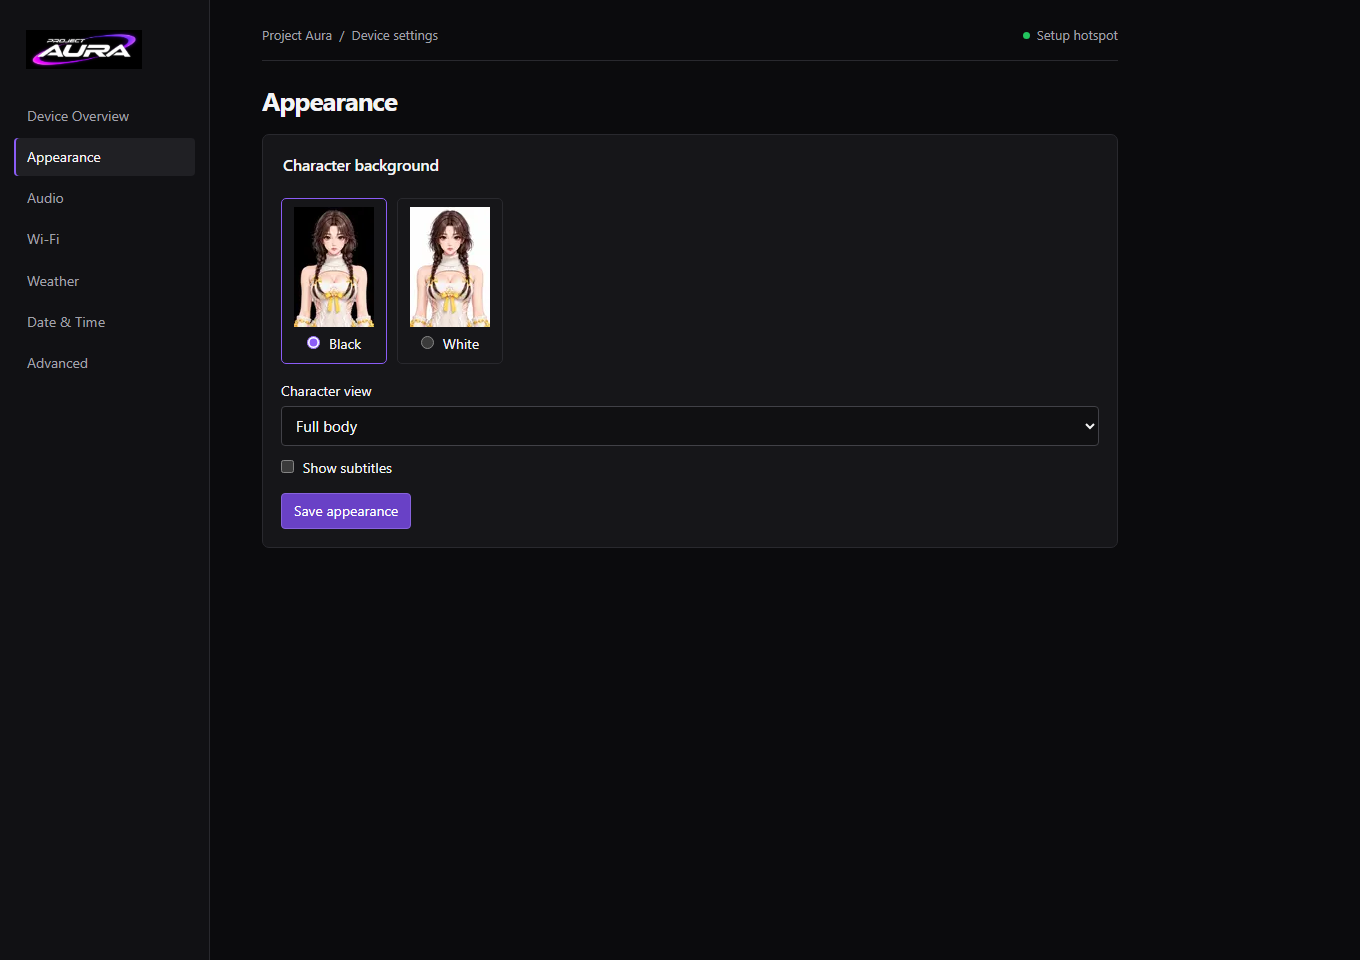
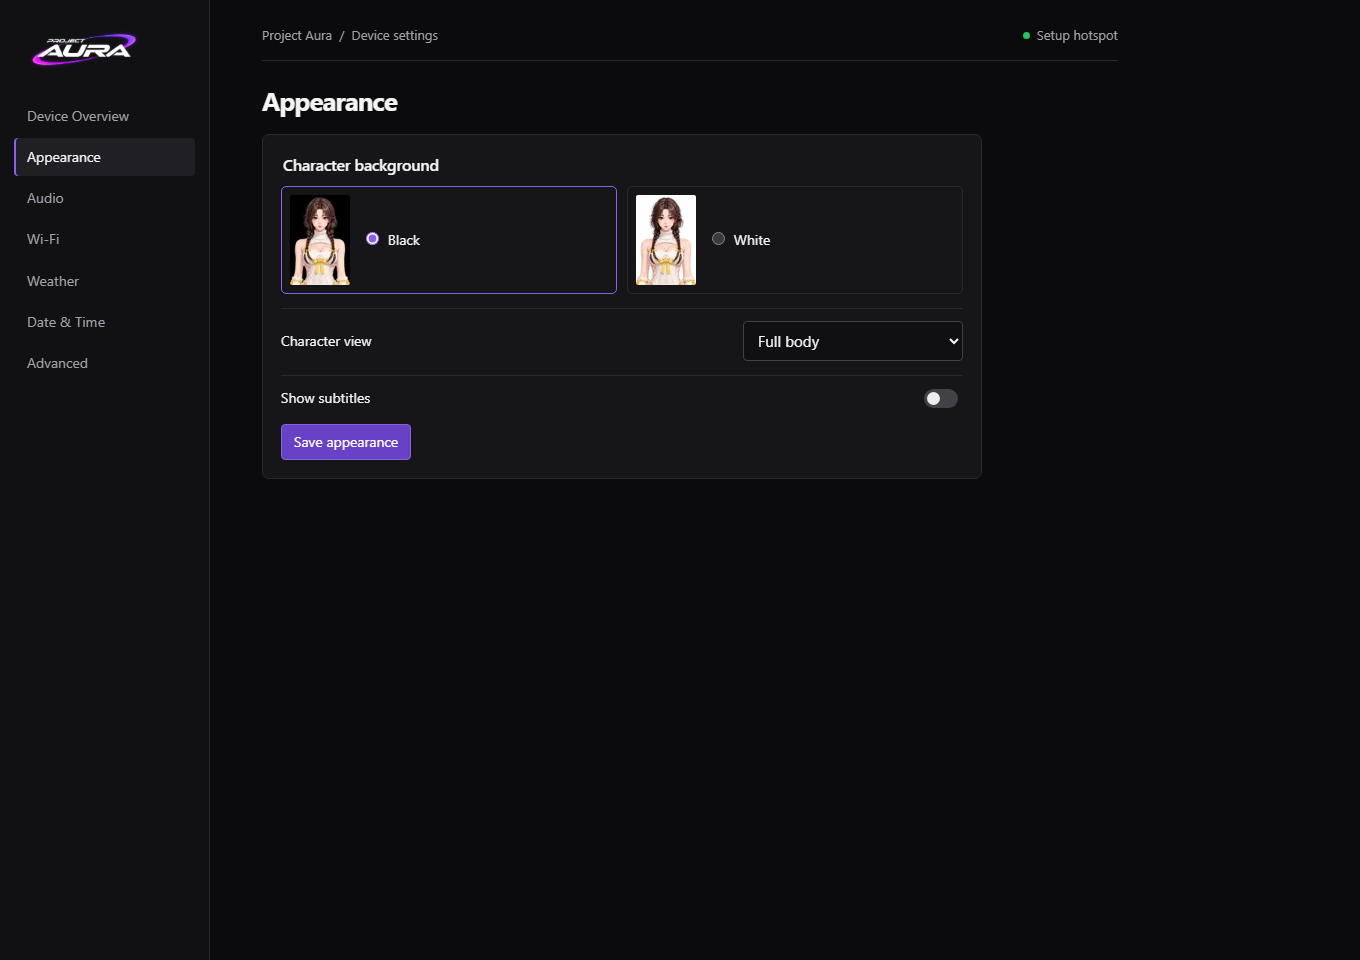
Measure the rolling glyph window with public LVGL APIs and verify subtitle drain and portal recovery

diff --git a/main/boards/anime-companion-s3/web/portal.html b/main/boards/anime-companion-s3/web/portal.html
@@ -11,9 +11,10 @@
 .layout{display:grid;grid-template-columns:210px minmax(0,1fr);min-height:100vh}aside{background:var(--sidebar);border-right:1px solid var(--line);padding:30px 14px}.brand{display:block;width:116px;margin:0 12px 28px}.nav{display:grid;gap:3px}.nav button{border:0;border-radius:4px;background:none;text-align:left;padding:9px 13px;color:var(--muted);font-size:14px}.nav button:hover,.nav button.active{background:#202024;color:var(--fg)}.nav button.active{box-shadow:inset 2px 0 var(--accent)}.mobileNav{display:none}
 .pane{width:100%;max-width:960px;padding:26px clamp(18px,4vw,52px) 40px}.top{display:flex;justify-content:space-between;align-items:center;color:var(--muted);font-size:13px;padding-bottom:15px;border-bottom:1px solid var(--line)}.status{display:inline-flex;align-items:center;gap:7px}.status:before{content:"";width:7px;height:7px;background:var(--muted);border-radius:50%}.status.online:before{background:var(--ok)}
 h1{font-size:26px;letter-spacing:-.04em;line-height:1.2;margin:24px 0 18px}h2,legend{font-size:16px;font-weight:600;letter-spacing:-.015em;margin:0 0 10px}p{margin:7px 0 12px;color:var(--muted)}.box,iframe{background:var(--panel);border:1px solid var(--line);border-radius:7px}.box{padding:18px;margin:0 0 12px}.grid{display:grid;grid-template-columns:repeat(2,minmax(0,1fr));gap:12px}.grid>*{min-width:0}.big{font-size:22px;font-weight:550;letter-spacing:-.03em}.link{color:var(--fg);padding:4px 0;background:none;border:0;text-decoration:underline;text-underline-offset:4px;text-decoration-color:#57575c;font-size:13px}
-dl{margin:0}dl div{display:flex;justify-content:space-between;gap:14px;padding:9px 0;border-top:1px solid var(--line)}dt{color:var(--muted)}dd{margin:0;text-align:right;overflow-wrap:anywhere}label{display:block;font-size:14px;margin:12px 0 5px}input,select{width:100%;min-width:0;background:#101012;border:1px solid #414147;border-radius:4px;padding:8px 10px}input[type=checkbox],input[type=radio]{width:auto;margin:0 5px 0 0}input[type=range]{padding:0;display:block;margin:13px 0}input{accent-color:var(--accent)}fieldset{border:0;margin:0;padding:0}.row,.actions{display:flex;align-items:center;gap:8px}.actions{margin-top:15px;flex-wrap:wrap}.row input{flex:1}.btn{background:#242429;border:1px solid #39393e;padding:7px 12px;border-radius:4px;white-space:nowrap;font-size:14px}.primary{color:white;background:#6941c6;border-color:#8763dc}.btn:hover{filter:brightness(1.13)}.feedback{font-size:14px;color:var(--ok)}.feedback:empty{display:none}.feedback.error{color:var(--error)}.swatches{display:flex;gap:10px}.swatch{display:grid;justify-items:center;border:1px solid var(--line);border-radius:5px;padding:8px 12px;gap:7px;cursor:pointer}.swatch:has(:checked){border-color:var(--accent)}.swatch img{object-fit:contain}.sub{font-size:14px}iframe{width:100%;min-height:540px}#volPercent{float:right;font-variant-numeric:tabular-nums}#audio .box{max-width:620px}
+dl{margin:0}dl div{display:flex;justify-content:space-between;gap:14px;padding:9px 0;border-top:1px solid var(--line)}dt{color:var(--muted)}dd{margin:0;text-align:right;overflow-wrap:anywhere}label{display:block;font-size:14px;margin:12px 0 5px}input,select{width:100%;min-width:0;background:#101012;border:1px solid #414147;border-radius:4px;padding:8px 10px}input[type=checkbox],input[type=radio]{width:auto;margin:0 5px 0 0}input[type=range]{padding:0;display:block;margin:13px 0}input{accent-color:var(--accent)}fieldset{border:0;margin:0;padding:0}.row,.actions{display:flex;align-items:center;gap:8px}.actions{margin-top:15px;flex-wrap:wrap}.row input{flex:1}.btn{background:#242429;border:1px solid #39393e;padding:7px 12px;border-radius:4px;white-space:nowrap;font-size:14px}.primary{color:white;background:#6941c6;border-color:#8763dc}.btn:hover{filter:brightness(1.13)}.feedback{font-size:14px;color:var(--ok)}.feedback:empty{display:none}.feedback.error{color:var(--error)}.swatches{display:flex;gap:10px}.swatch{display:grid;justify-items:center;border:1px solid var(--line);border-radius:5px;padding:8px 12px;gap:7px;cursor:pointer}.swatch:has(:checked){border-color:var(--accent)}.swatch img{object-fit:contain}.sub{font-size:14px}iframe{width:100%;min-height:180px}#volPercent{float:right;font-variant-numeric:tabular-nums}#audio .box{max-width:620px}
 @media(max-width:700px){.layout{display:block}aside{display:flex;align-items:center;justify-content:space-between;padding:12px 16px;border:0;border-bottom:1px solid var(--line)}.brand{width:90px;margin:0}.nav{display:none}.mobileNav{display:block;width:auto;max-width:55%;font-size:14px}.pane{padding:16px}.top{padding-bottom:10px}h1{font-size:23px;margin:18px 0 14px}.box{padding:14px}.row{flex-wrap:wrap}.row input{min-width:105px}.grid{gap:8px}.big{font-size:18px}}
 @media(max-width:370px){.grid{grid-template-columns:1fr}}
+#appearance{max-width:720px}.settingRow{border-top:1px solid var(--line);margin-top:14px;padding:12px 0 0;display:flex;align-items:center;justify-content:space-between;gap:18px}.settingRow label{margin:0}.settingRow select{width:min(50%,220px)}.switch{appearance:none;width:34px!important;height:19px;background:#414147;border:0;border-radius:15px;padding:3px;cursor:pointer}.switch:before{content:"";display:block;width:13px;height:13px;background:#eee;border-radius:50%}.switch:checked{background:var(--accent)}.switch:checked:before{transform:translateX(15px)}.swatches{flex-wrap:wrap}.swatch{display:flex;align-items:center;flex:1;justify-content:flex-start;gap:16px;padding:8px;margin:0}.swatch img{border-radius:2px;width:60px;height:90px}.swatch span{white-space:nowrap}.brand{mix-blend-mode:screen}
 </style>
   </head>
   <body>
@@ -58,7 +59,7 @@ dl{margin:0}dl div{display:flex;justify-content:space-between;gap:14px;padding:9
             </article>
             <article class="box">
               <h2>Weather</h2>
-              <div class="big" id="weatherCard">Not configured</div>
+              <div class="big" id="weatherCard">—</div>
               <p id="weatherCity"></p>
               <button data-go="weather" class="link">Weather settings →</button>
             </article>
@@ -169,8 +170,8 @@ dl{margin:0}dl div{display:flex;justify-content:space-between;gap:14px;padding:9
         </section>
         <section id="appearance" hidden class="box">
[1 lines of base64/hex data omitted]
-          <label for="bodyMode">Character view</label><select id="bodyMode"><option value="full">Full body</option><option value="half">Half body</option></select>
-          <label><input id="showSubs" type="checkbox"> Show subtitles</label>
+          <div class="settingRow"><label for="bodyMode">Character view</label><select id="bodyMode"><option value="full">Full body</option><option value="half">Half body</option></select>
+          </div><div class="settingRow"><label for="showSubs">Show subtitles</label><input class="switch" id="showSubs" type="checkbox"></div>
           <div class="actions"><button class="btn primary" id="applyControls">Save appearance</button></div></section>
         <section id="audio" hidden><div class="box"><label for="volume">Speaker volume <output id="volPercent"></output></label><input id="volume" type="range" min="0" max="100" step="1"><button class="btn primary" id="applyVolume">Save volume</button></div></section>
         <section id="advanced" hidden>
@@ -211,6 +212,7 @@ dl{margin:0}dl div{display:flex;justify-content:space-between;gap:14px;padding:9
           "login",
           "done",
         ];
+      let writes=0, writing=0, reconnecting=false;
       let state = null,
         token = "",
         clearKey = false,
@@ -248,6 +250,16 @@ dl{margin:0}dl div{display:flex;justify-content:space-between;gap:14px;padding:9
         } else $("legacy").removeAttribute("src");
       }
       $("mobileNav").onchange=()=>page($("mobileNav").value);
+      let frameObserver;
+      $("legacy").onload=()=>{
+        frameObserver?.disconnect();
+        const content=$("legacy").contentDocument?.querySelector(".page");
+        if (!content) return;
+        frameObserver=new ResizeObserver(()=>{
+          $("legacy").style.height=Math.ceil(content.getBoundingClientRect().height+36)+"px";
+        });
+        frameObserver.observe(content);
+      };
       function stamp(t) {
         if (!t) return "Awaiting sync";
         return new Intl.DateTimeFormat(undefined, {
@@ -257,6 +269,7 @@ dl{margin:0}dl div{display:flex;justify-content:space-between;gap:14px;padding:9
         }).format(new Date(t * 1000));
       }
       async function api(payload) {
+        if (payload) {++writes; ++writing;}
         const h = { "X-Aura-Request": "1" };
         if (token) h.Authorization = "Bearer " + token;
         if (payload) h["Content-Type"] = "application/json";
@@ -278,7 +291,7 @@ dl{margin:0}dl div{display:flex;justify-content:space-between;gap:14px;padding:9
         if (!r.ok)
           throw Error((await r.text()).slice(0, 160) || "Request failed");
         return await r.json();
-        } finally { clearTimeout(timeout); }
+        } finally { clearTimeout(timeout); if (payload) --writing; }
       }
       const dirtyControls = new Set();
       function appearance() {
@@ -312,6 +325,10 @@ dl{margin:0}dl div{display:flex;justify-content:space-between;gap:14px;padding:9
         } catch(e) { message(e.message,true); }
         finally { button.disabled=false; }
       };
+      const edited = new Set();
+      for (const group of ["weather", "time"]) {
+        $(group).addEventListener("input",()=>edited.add(group));
+      }
       function render(s, fill) {
         state = s;
         $("returnAura").hidden=s.home;
@@ -383,7 +400,7 @@ dl{margin:0}dl div{display:flex;justify-content:space-between;gap:14px;padding:9
         $("wifiHome").hidden = !s.home;
         $("advancedHome").hidden = !s.home;
         $("pairBox").hidden = s.home;
-        if (fill) {
+        if (fill===true || !edited.has("weather")) {
           $("enabled").checked = s.enabled;
           $("city").value = s.city;
           $("country").value = s.country;
@@ -394,6 +411,8 @@ dl{margin:0}dl div{display:flex;justify-content:space-between;gap:14px;padding:9
           $("key").value = "";
           clearKey = false;
           selection = s.lat === undefined ? null : { lat: s.lat, lon: s.lon };
+        }
+        if (fill===true || !edited.has("time")) {
           $("automatic").checked = s.automatic;
           $("zone").value = s.zone;
           $("format").value = s.h24 ? "24" : "12";
@@ -417,16 +436,21 @@ dl{margin:0}dl div{display:flex;justify-content:space-between;gap:14px;padding:9
         }
       }
       async function refresh(fill = false) {
-        if (inFlight) return;
+        if (inFlight || writing) return;
         inFlight = true;
         try {
           const old = state;
-          render(await api(), fill || !old);
+          const generation=writes;
+          const snapshot=await api();
+          if (generation!==writes) return;
+          render(snapshot, fill || !old);
+          if (reconnecting) {message(""); reconnecting=false;}
           if (!old) {
             message("");
             page("overview");
           }
         } catch (e) {
+          reconnecting=true;
           $("connection").textContent=section==="login"?"Locked":"Disconnected";
           $("connection").classList.remove("online");
           message(e.message, true);
@@ -438,7 +462,9 @@ dl{margin:0}dl div{display:flex;justify-content:space-between;gap:14px;padding:9
         btn.disabled = true;
         btn.classList.add("busy");
         try {
-          render(await api(payload), fill);
+          const saved=await api(payload);
+          if (fill) edited.delete(payload.action);
+          render(saved, false);
           message(
             ["test", "search", "sync"].includes(payload.action)
               ? "Request submitted. Check service status for the result."
@@ -481,6 +507,7 @@ dl{margin:0}dl div{display:flex;justify-content:space-between;gap:14px;padding:9
         $("reveal").textContent = show ? "Hide" : "Show";
       };
       $("clear").onclick = () => {
+        edited.add("weather");
         clearKey = true;
         $("key").value = "";
         $("key").placeholder = "Cleared on save";
@@ -541,6 +568,7 @@ dl{margin:0}dl div{display:flex;justify-content:space-between;gap:14px;padding:9
         $("connection").textContent = "Wi-Fi configured";
       } else {
         page("overview");
+        message("Reading device settings…");
         refresh(true);
         setInterval(() => {
           if (section !== "login" && !document.hidden) refresh();

diff --git a/main/boards/anime-companion-s3/aura_ui.h b/main/boards/anime-companion-s3/aura_ui.h
@@ -41,6 +41,7 @@ public:
             Clear();
         }
     }
+    bool Visible() const { return assistant || !text.empty(); }
     size_t Buffered() const { return text.size() + pending_.size(); }
     void Clear() {
         text.clear();
@@ -73,7 +74,7 @@ public:
         auto space = capacity - Buffered();
         if (space < 5)
             return;
-        if (assistant || !pending_.empty()) {
+        if ((assistant && !text.empty()) || !pending_.empty()) {
             pending_ += ' ';
             --space;
         }
@@ -112,11 +113,9 @@ public:
         }
         MeasureWindow(width);
         const int speed = Buffered() > 800 ? 50 : 45;
-        pos_ -= (now - last_) * speed;
+        if (!text.empty())
+            pos_ -= (now - last_) * speed;
         last_ = now;
-        // Keep the tail readable if playback catches up with sentence delivery.
-        if ((!ended_ || playing) && pending_.empty())
-            pos_ = std::max(pos_, int64_t(std::min(10, 280 - width_)) * 1000);
         x_ = int(pos_ / 1000);
         if (text.size() > 128 && x_ < 0) {
             const size_t n = Prefix(text, 96);
@@ -129,19 +128,28 @@ public:
                 x_ = int(pos_ / 1000);
             }
         }
-        if (ended_ && !playing && pending_.empty() && x_ + width_ <= 0) {
-            if (fade_ < 0) {
-                fade_ = now;
-                fade_alpha_ = 255;
+        if (pending_.empty() && (text.empty() || x_ + width_ <= 0)) {
+            if (ended_ && !playing) {
+                if (fade_ < 0) {
+                    fade_ = now;
+                    fade_alpha_ = 255;
+                }
+                if (now - fade_ >= 500)
+                    Clear();
+            } else if (!text.empty()) {
+                // The last run has exited. Keep the strip up during a delivery gap.
+                // Reserve the entry edge for the next run while no glyph is visible.
+                text.clear();
+                ++revision;
+                pos_ = 310000;
+                x_ = 310;
             }
-            if (now - fade_ >= 500)
-                Clear();
         }
     }
     int X() const { return x_; }
     void FontChanged() { ++revision; }
     int Opacity(int64_t now) const {
-        if (text.empty())
+        if (!Visible())
             return 0;
         if (fade_ >= 0) {
             const int duration = assistant ? 500 : 240;
@@ -166,6 +174,8 @@ private:
         while (n && (uint8_t(src[n]) & 0xc0) == 0x80)
             --n;
         auto start = dest.size();
+        if (dest.capacity() < dest.size() + n && dest.size() + n > capacity / 2)
+            dest.reserve(capacity);
         dest.append(src, n);
         for (size_t i = start; i < dest.size(); ++i)
             if (dest[i] == '\n' || dest[i] == '\r' || dest[i] == '\t')

diff --git a/main/boards/anime-companion-s3/avatar_display.cc b/main/boards/anime-companion-s3/avatar_display.cc
@@ -357,7 +357,12 @@ void AvatarDisplay::CreateOverlays() {
     lv_obj_set_style_bg_color(caption_bar_, lv_color_hex(0x101012), 0);
     lv_obj_set_style_bg_opa(caption_bar_, 250, 0);
     lv_obj_add_flag(caption_bar_, LV_OBJ_FLAG_HIDDEN);
-    caption_label_ = lv_label_create(caption_bar_);
+    auto* viewport = lv_obj_create(caption_bar_);
+    lv_obj_remove_style_all(viewport);
+    lv_obj_remove_flag(viewport, LV_OBJ_FLAG_SCROLLABLE);
+    lv_obj_set_size(viewport, 300, 42);
+    lv_obj_center(viewport);
+    caption_label_ = lv_label_create(viewport);
     lv_label_set_text(caption_label_, "");
     lv_obj_set_width(caption_label_, LV_SIZE_CONTENT);
     lv_obj_align(caption_label_, LV_ALIGN_LEFT_MID, 0, 0);
@@ -385,10 +390,18 @@ void AvatarDisplay::UpdateOverlays(int64_t ms, bool listening, bool active) {
         if (font_changed)
             captions_.FontChanged();
         captions_.Tick(ms, active, [&](const char* str, size_t bytes) {
-            return lv_text_get_width(str, bytes, lv_obj_get_style_text_font(caption_label_, 0),
-                                     lv_obj_get_style_text_letter_space(caption_label_, 0));
+            lv_point_t size{};
+            std::string prefix;
+            if (str[bytes]) {
+                prefix.assign(str, bytes);
+                str = prefix.c_str();
+            }
+            lv_text_get_size(&size, str, lv_obj_get_style_text_font(caption_label_, 0),
+                             lv_obj_get_style_text_letter_space(caption_label_, 0), 0, LV_COORD_MAX,
+                             LV_TEXT_FLAG_NONE);
+            return size.x;
         });
-        visible = !captions_.text.empty();
+        visible = captions_.Visible();
         if (caption_revision_ != captions_.revision || font_changed) {
             caption_revision_ = captions_.revision;
             if (!visible) {
@@ -403,7 +416,7 @@ void AvatarDisplay::UpdateOverlays(int64_t ms, bool listening, bool active) {
         if (!visible)
             return;
         alpha = captions_.Opacity(ms);
-        x = captions_.X();
+        x = captions_.X() - 10;
     }
     if (alpha != opacity_) {
         lv_obj_set_style_opa(caption_bar_, alpha, 0);

diff --git a/scripts/tests/aura_ui_test.cc b/scripts/tests/aura_ui_test.cc
@@ -19,25 +19,43 @@ int main() {
     assert(c.X() <= before && c.X() >= before - 1 && c.text == "First. Second.");
     assert(c.Opacity(16301) == 255);
     c.Finish();
-    for (int t = 16400; t < 40000; t += 40)
+    int faded_frames = 0, previous = 255;
+    for (int t = 16400; t < 40000; t += 40) {
         tick(t, false);
+        int alpha = c.Opacity(t);
+        assert(alpha <= previous);
+        if (alpha > 0 && alpha < 255)
+            ++faded_frames;
+        previous = alpha;
+    }
+    assert(faded_frames >= 11 && faded_frames <= 13);
     assert(c.text.empty());
-    c.Submit(false, "New?", 41000);
+    // A large inter-packet gap can exhaust the visible text. The strip stays
+    // opaque until more data arrives, without a second turn transition.
+    c.Submit(true, "A", 40000);
+    tick(40000, true);
+    tick(48000, true);
+    assert(c.text.empty() && c.Visible() && c.Opacity(48000) == 255);
+    c.Submit(true, "B", 48020);
+    tick(48020, true);
+    assert(c.text == "B" && c.X() > 300);
+    c.Clear();
+    c.Submit(false, "New?", 49000);
     std::string long_text;
     for (int i = 0; i < 6000; i++)
         long_text += "界";
-    c.Submit(true, long_text.c_str(), 41000);
-    tick(41000, true);
-    tick(41400, true);
+    c.Submit(true, long_text.c_str(), 49000);
+    tick(49000, true);
+    tick(49400, true);
     assert(c.Buffered() <= c.capacity && c.text.size() % 3 == 0);
-    bool rolled = false;
-    for (int t = 41440; t < 190000; t += 40) {
-        auto old = c.text.size();
+    const size_t initial = c.Buffered();
+    for (int t = 49440; t < 190000; t += 40) {
         tick(t, true);
-        rolled |= c.text.size() < old || c.X() > -20;
+        for (size_t i = 0; i < c.text.size(); i += 3)
+            assert(c.text.compare(i, 3, "界") == 0);
         assert(c.text.size() % 3 == 0 && c.Buffered() <= c.capacity);
     }
-    assert(rolled);
+    assert(c.Buffered() + 384 < initial);
     c.Clear();
     assert(c.text.empty() && !c.Buffered());
     c.Submit(false, "次の質問", 200000);

diff --git a/scripts/anime_preview.py b/scripts/anime_preview.py
@@ -54,6 +54,8 @@ def subtitles(exe, motion, target):
             for i,char in enumerate(line):
                 draw.text((int(x)+i*advance,21),char,font=font,anchor="lm",
                           fill="white" if answer=="1" else "#a8c7fa")
+            draw.rectangle((0,0,9,41),fill="#101012")
+            draw.rectangle((310,0,319,41),fill="#101012")
             im.paste(Image.blend(area,strip,int(opacity)/255),(0,438))
         frames.append(im.quantize(colors=256))
     frames[0].save(target, save_all=True, append_images=frames[1:], duration=80, loop=0)
